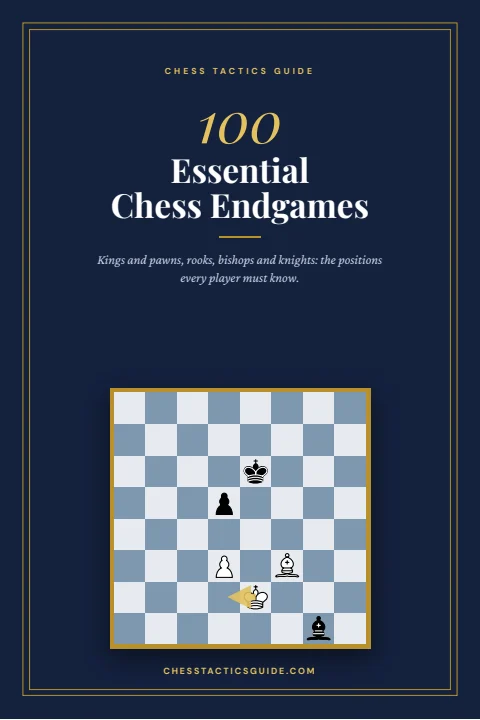
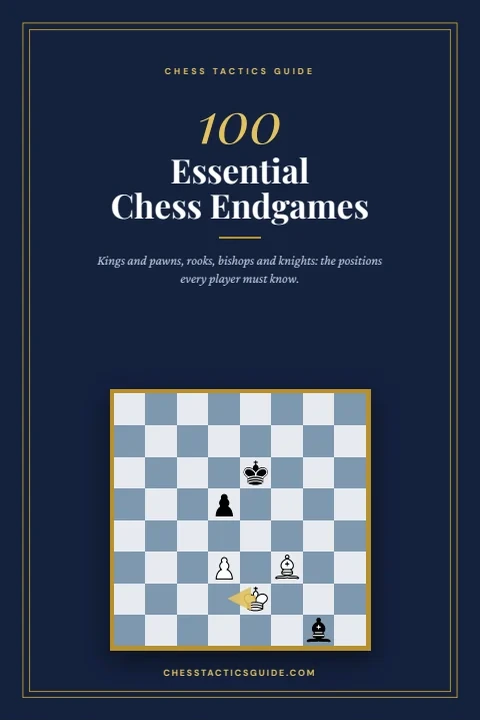
eBooks: cleaner covers (no white row at the bottom, softer page edge)
Claude-Session: https://claude.ai/code/session_01YC5JRCiqqynmWYQfTxD754

diff --git a/src/index.css b/src/index.css
@@ -461,11 +461,12 @@
 }
 .book3d-pages {
   position: absolute;
-  top: 2px;
+  top: 1px;
   left: calc(var(--w) - var(--d) / 2);
   width: var(--d);
-  height: calc(100% - 4px);
-  background: repeating-linear-gradient(90deg, #f1efe8 0 2px, #d9d6cb 2px 3px);
+  height: calc(100% - 2px);
+  background: linear-gradient(90deg, #8f8b80 0%, #bdb9ac 45%, #a39f93 100%);
+  border-radius: 0 3px 3px 0;
   transform: rotateY(90deg);
 }
 .book3d-shadow {
